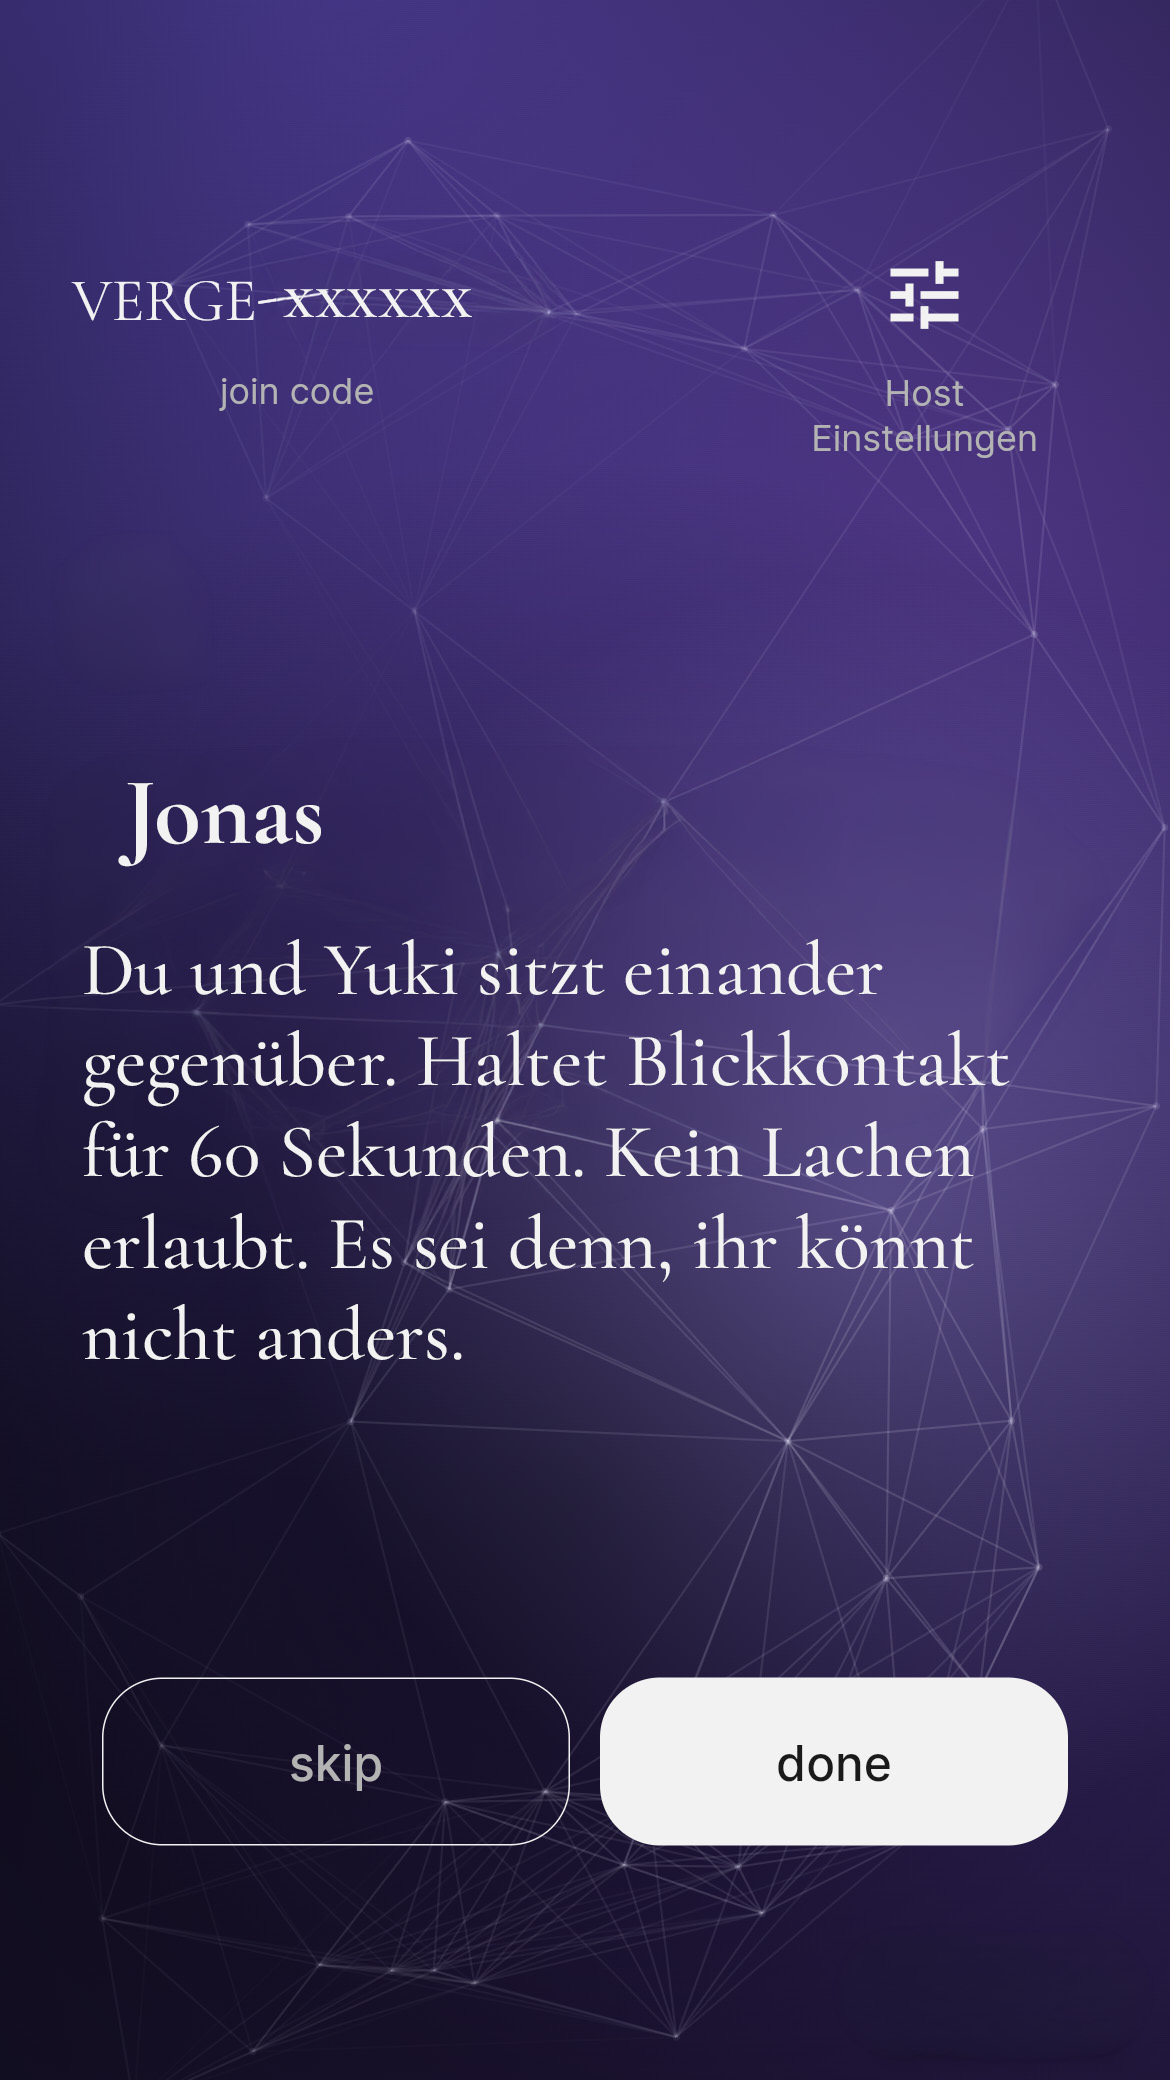
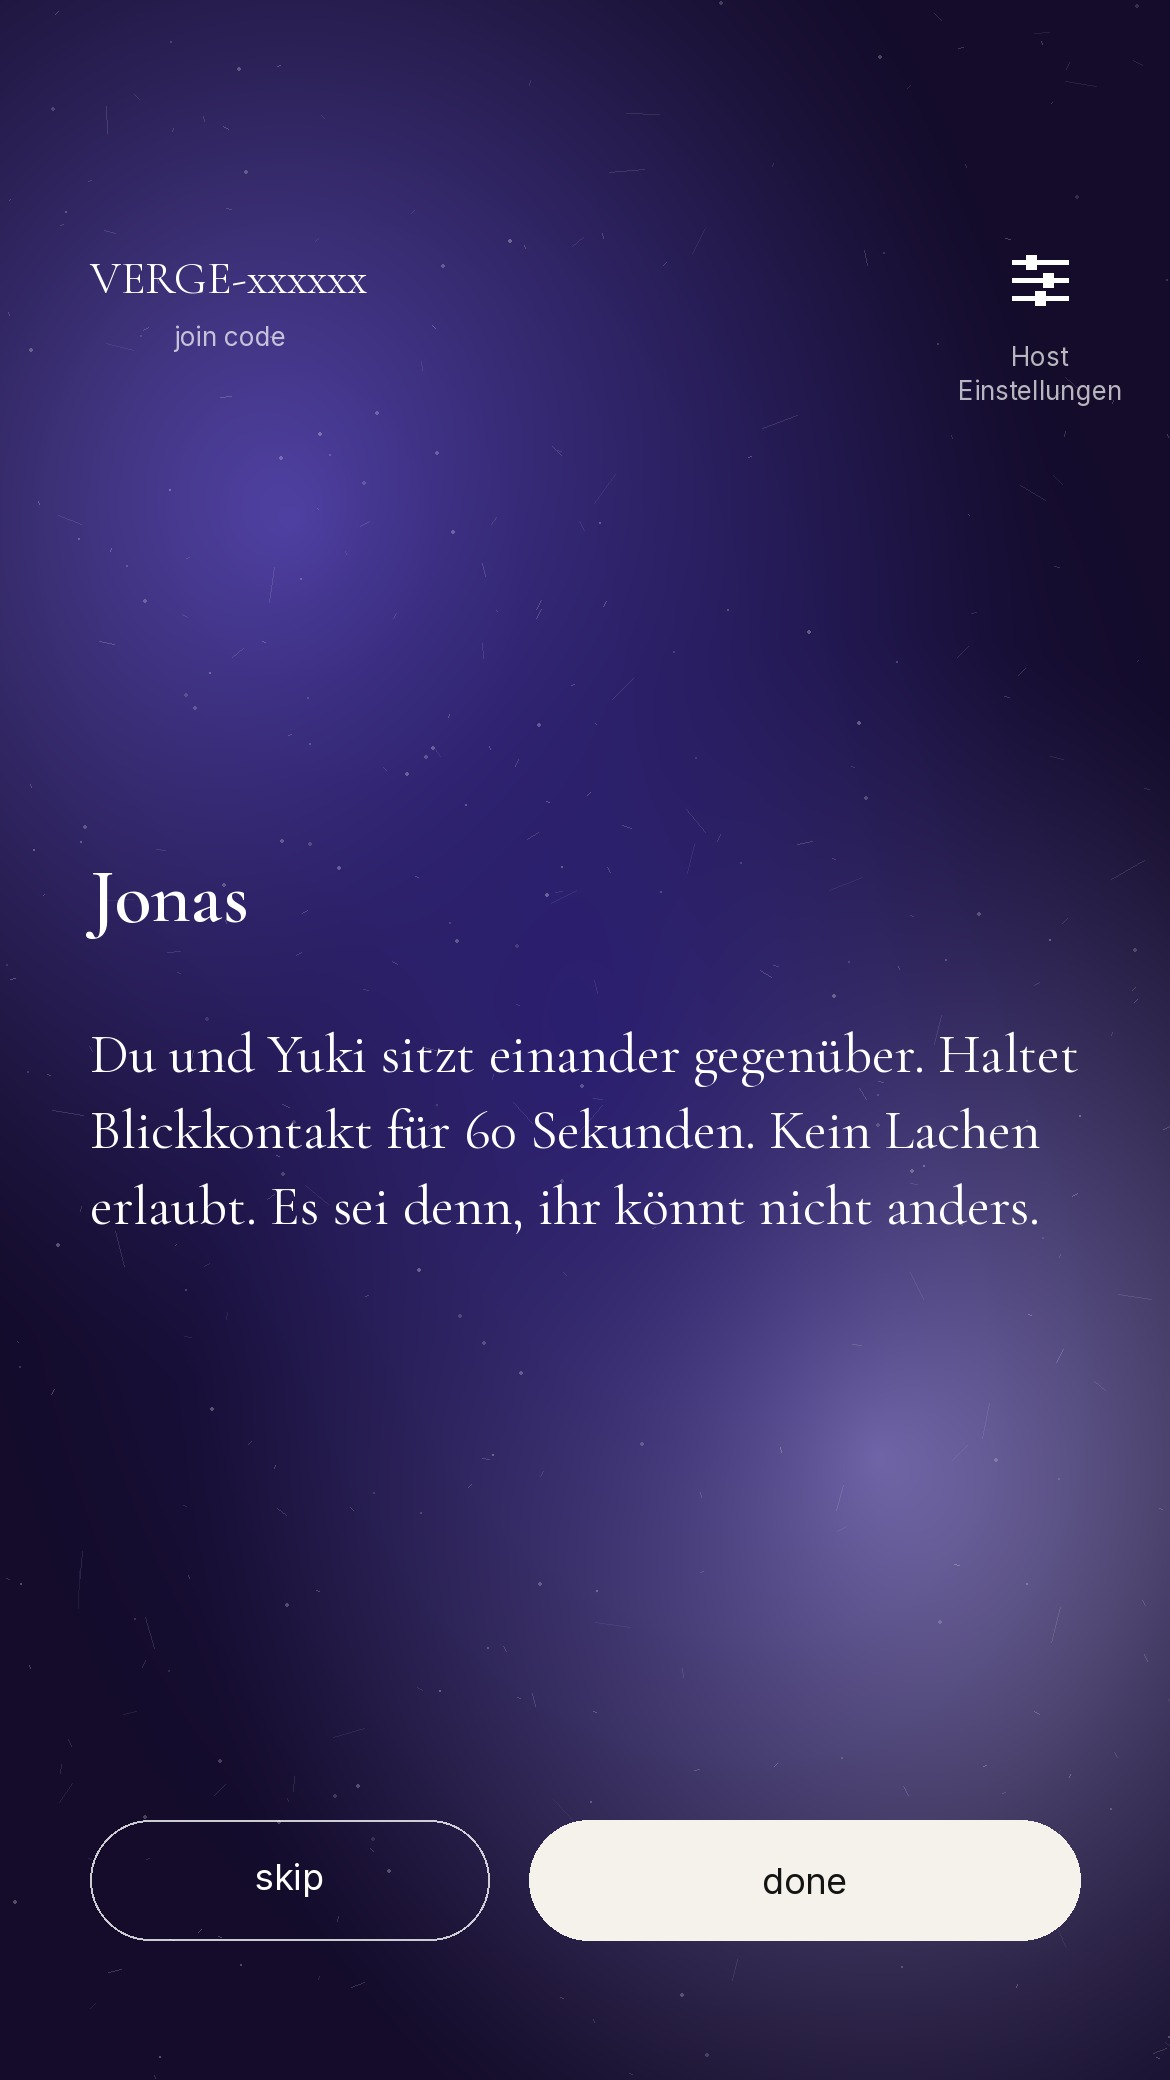
Add files via upload

diff --git a/index.html b/index.html
@@ -19,11 +19,11 @@
 <style>
 *{margin:0;padding:0;box-sizing:border-box}
 :root{
-  --bg:#1a1a1a;
-  --bg2:#222222;
-  --ink:#f2f2f2;
-  --ink2:#b3b3b3;
-  --rule:rgba(242,242,242,0.04);
+  --bg:#0e0e0e;
+  --bg2:#161616;
+  --ink:#fafafa;
+  --ink2:#cfcfcf;
+  --rule:rgba(250,250,250,0.06);
   --a1:#2ec4b6;
   --a2:#3a86ff;
   --a3:#7b61ff;
@@ -32,11 +32,11 @@
 }
 html,body{width:100%;min-height:100%;background:var(--bg);color:var(--ink);overflow-x:hidden}
 body{font-family:"Inter",sans-serif;font-weight:300}
-#c{position:fixed;inset:0;z-index:0;pointer-events:none}
+#c{position:fixed;inset:0;z-index:0;pointer-events:none;filter:brightness(.78)}
 
 /* lang */
 .lang{position:fixed;top:28px;right:32px;z-index:300;display:flex;border:1px solid var(--rule);overflow:hidden}
-.lang button{background:none;border:none;border-right:1px solid var(--rule);color:var(--ink2);font-family:"Inter",sans-serif;font-size:9px;font-weight:500;letter-spacing:.14em;padding:8px 15px;cursor:pointer;transition:all .2s;text-transform:uppercase}
+.lang button{background:none;border:none;border-right:1px solid var(--rule);color:var(--ink2);font-family:"Inter",sans-serif;font-size:10px;font-weight:500;letter-spacing:.14em;padding:8px 15px;cursor:pointer;transition:all .2s;text-transform:uppercase}
 .lang button:last-child{border-right:none}
 .lang button.active{background:rgba(242,242,242,.05);color:var(--ink)}
 
@@ -55,31 +55,31 @@ nav{position:relative;display:flex;align-items:center;justify-content:center;pad
 
 .hero-left{padding:60px 40px 60px 0;display:flex;flex-direction:column;justify-content:flex-start}
 
-.eyebrow{font-family:"Inter",sans-serif;font-size:9px;font-weight:400;letter-spacing:.22em;text-transform:uppercase;color:var(--ink2);margin-bottom:44px;animation:up .8s cubic-bezier(.16,1,.3,1) .05s both}
+.eyebrow{font-family:"Inter",sans-serif;font-size:10px;font-weight:400;letter-spacing:.22em;text-transform:uppercase;color:var(--ink2);margin-bottom:44px;animation:up .8s cubic-bezier(.16,1,.3,1) .05s both}
 
 /* HEADLINE — Cormorant Garamond, riesig und laut */
 .hl{animation:up .8s cubic-bezier(.16,1,.3,1) .1s both;font-family:"Cormorant Garamond",serif;line-height:.93;letter-spacing:-.02em}
-.hl .w1{display:block;font-size:clamp(32px,4.2vw,58px);font-weight:700;color:var(--ink)}
-.hl .w2{display:block;font-size:clamp(32px,4.2vw,58px);font-weight:400;font-style:italic;color:transparent;-webkit-text-stroke:1px var(--a1);padding-left:.06em}
-.hl .w3{display:block;font-size:clamp(18px,2vw,28px);font-weight:300;color:rgba(242,242,242,.32);padding-left:.1em;margin-top:.28em}
-.hl .w4{display:block;font-size:clamp(18px,2vw,28px);font-weight:600;font-style:italic;color:var(--a5);padding-left:.1em}
+.hl .w1{display:block;font-size:clamp(36px,4.6vw,64px);font-weight:700;color:var(--ink)}
+.hl .w2{display:block;font-size:clamp(36px,4.6vw,64px);font-weight:400;font-style:italic;color:transparent;-webkit-text-stroke:1px var(--a1);padding-left:.06em}
+.hl .w3{display:block;font-size:clamp(20px,2.2vw,30px);font-weight:300;color:rgba(250,250,250,.42);padding-left:.1em;margin-top:.28em}
+.hl .w4{display:block;font-size:clamp(20px,2.2vw,30px);font-weight:600;font-style:italic;color:var(--a5);padding-left:.1em}
 
 /* body copy */
-.hero-copy{font-family:"Inter",sans-serif;font-size:14px;font-weight:300;line-height:2;color:var(--ink2);animation:up .8s cubic-bezier(.16,1,.3,1) .18s both;max-width:400px;margin-top:52px}
+.hero-copy{font-family:"Inter",sans-serif;font-size:15px;font-weight:300;line-height:2;color:var(--ink2);animation:up .8s cubic-bezier(.16,1,.3,1) .18s both;max-width:400px;margin-top:52px}
 .hero-copy strong{color:var(--ink);font-weight:400}
 
 /* right col — signup */
 .hero-right{padding:80px 0 80px 52px;display:flex;flex-direction:column;justify-content:flex-start;gap:0;animation:up .8s cubic-bezier(.16,1,.3,1) .14s both}
 
-.signup-ey{font-family:"Cormorant Garamond",serif;font-size:18px;font-weight:500;font-style:italic;letter-spacing:.01em;color:var(--ink);margin-bottom:22px}
-.sfield{width:100%;background:transparent;border:none;border-bottom:1px solid var(--rule);padding:14px 0;color:var(--ink);font-family:"Inter",sans-serif;font-size:14px;font-weight:300;outline:none;transition:border-color .25s;display:block}
+.signup-ey{font-family:"Cormorant Garamond",serif;font-size:20px;font-weight:500;font-style:italic;letter-spacing:.01em;color:var(--ink);margin-bottom:22px}
+.sfield{width:100%;background:transparent;border:none;border-bottom:1px solid var(--rule);padding:14px 0;color:var(--ink);font-family:"Inter",sans-serif;font-size:15px;font-weight:300;outline:none;transition:border-color .25s;display:block}
 .sfield:focus{border-bottom-color:rgba(46,196,182,.45)}
 .sfield::placeholder{color:rgba(242,242,242,.38)}
-.sbtn{width:100%;background:var(--a1);border:none;border-radius:2px;padding:16px 20px;color:#0a0a0a;font-family:"Inter",sans-serif;font-size:9px;font-weight:500;letter-spacing:.25em;text-transform:uppercase;cursor:pointer;transition:all .3s;text-align:left;display:flex;justify-content:space-between;align-items:center;margin-top:18px}
+.sbtn{width:100%;background:var(--a1);border:none;border-radius:2px;padding:16px 20px;color:#0a0a0a;font-family:"Inter",sans-serif;font-size:10px;font-weight:500;letter-spacing:.25em;text-transform:uppercase;cursor:pointer;transition:all .3s;text-align:left;display:flex;justify-content:space-between;align-items:center;margin-top:18px}
 .sbtn::after{content:'→';font-size:15px;letter-spacing:0;font-weight:400;transition:transform .3s}
 .sbtn:hover{background:var(--ink);color:#0a0a0a}
 .sbtn:hover::after{transform:translateX(6px)}
-.snote{font-family:"Inter",sans-serif;font-size:8px;font-weight:300;letter-spacing:.1em;text-transform:uppercase;color:rgba(242,242,242,.16);margin-top:18px}
+.snote{font-family:"Inter",sans-serif;font-size:9px;font-weight:300;letter-spacing:.1em;text-transform:uppercase;color:rgba(250,250,250,.22);margin-top:18px}
 .success-msg{display:none;padding:24px 0;font-family:"Cormorant Garamond",serif;font-size:22px;font-style:italic;font-weight:400;color:var(--a1)}
 
 /* badges */
@@ -92,13 +92,13 @@ nav{position:relative;display:flex;align-items:center;justify-content:center;pad
 /* ── ABOUT ── */
 .about-sec{display:block;border-bottom:1px solid var(--rule);padding:72px 0}
 .about-left{padding:0 0 24px 0}
-.sec-label{font-family:"Inter",sans-serif;font-size:9px;font-weight:400;letter-spacing:.2em;text-transform:uppercase;color:var(--ink2)}
+.sec-label{font-family:"Inter",sans-serif;font-size:10px;font-weight:400;letter-spacing:.2em;text-transform:uppercase;color:var(--ink2)}
 .about-right{padding:0}
 /* Cormorant für Pull-Quote */
-.about-pull{font-family:"Cormorant Garamond",serif;font-size:clamp(20px,2.6vw,30px);font-weight:400;font-style:italic;line-height:1.62;color:rgba(242,242,242,.62);margin-bottom:52px}
+.about-pull{font-family:"Cormorant Garamond",serif;font-size:clamp(22px,2.8vw,32px);font-weight:400;font-style:italic;line-height:1.62;color:rgba(250,250,250,.72);margin-bottom:52px}
 .phases{display:flex;flex-direction:column;gap:6px;align-items:flex-start}
 .phases-row{display:flex;gap:6px}
-.pill{font-family:"Inter",sans-serif;font-size:8px;font-weight:400;letter-spacing:.12em;text-transform:uppercase;padding:7px 15px;border:1px solid rgba(255,255,255,.07);transition:border-color .2s}
+.pill{font-family:"Inter",sans-serif;font-size:9px;font-weight:400;letter-spacing:.12em;text-transform:uppercase;padding:7px 15px;border:1px solid rgba(255,255,255,.1);transition:border-color .2s}
 
 /* ── CONSENT ── */
 .consent-sec{border-bottom:1px solid var(--rule)}
@@ -281,16 +281,16 @@ footer{position:relative;z-index:10;max-width:1280px;margin:0 auto;padding:28px 
       <div class="card-img-wrap" style="position:relative">
         <button class="card-arrow card-arrow-left" onclick="cardPrev()">&#8592;</button>
         <button class="card-arrow card-arrow-right" onclick="cardNext()">&#8594;</button>
-        <img class="card-img active" id="card-img-0"  src="card-01.jpg" alt="Verge Karte 1">
-        <img class="card-img"        id="card-img-1"  src="card-02.jpg" alt="Verge Karte 2">
-        <img class="card-img"        id="card-img-2"  src="card-03.jpg" alt="Verge Karte 3">
-        <img class="card-img"        id="card-img-3"  src="card-04.jpg" alt="Verge Karte 4">
-        <img class="card-img"        id="card-img-4"  src="card-05.jpg" alt="Verge Karte 5">
-        <img class="card-img"        id="card-img-5"  src="card-06.jpg" alt="Verge Karte 6">
-        <img class="card-img"        id="card-img-6"  src="card-07.jpg" alt="Verge Karte 7">
-        <img class="card-img"        id="card-img-7"  src="card-08.jpg" alt="Verge Karte 8">
-        <img class="card-img"        id="card-img-8"  src="card-09.jpg" alt="Verge Karte 9">
-        <img class="card-img"        id="card-img-9"  src="card-10.jpg" alt="Verge Karte 10">
+        <img class="card-img active" id="card-img-0"  src="card-01.jpg" alt="Verge Karte - Max">
+        <img class="card-img"        id="card-img-1"  src="card-02.jpg" alt="Verge Karte - Lena">
+        <img class="card-img"        id="card-img-2"  src="card-03.jpg" alt="Verge Karte - Sasha">
+        <img class="card-img"        id="card-img-3"  src="card-04.jpg" alt="Verge Karte - Stan">
+        <img class="card-img"        id="card-img-4"  src="card-05.jpg" alt="Verge Karte - Lara">
+        <img class="card-img"        id="card-img-5"  src="card-06.jpg" alt="Verge Karte - Jonas">
+        <img class="card-img"        id="card-img-6"  src="card-07.jpg" alt="Verge Karte - Mia">
+        <img class="card-img"        id="card-img-7"  src="card-08.jpg" alt="Verge Karte - Felix">
+        <img class="card-img"        id="card-img-8"  src="card-09.jpg" alt="Verge Karte - Marco">
+        <img class="card-img"        id="card-img-9"  src="card-10.jpg" alt="Verge Karte - Chiara">
       </div>
       <div class="card-controls">
         <div class="card-dots" id="card-dots"></div>
@@ -479,6 +479,13 @@ function setLang(l){
   document.getElementById("t-c5").innerHTML=t.c5;
   document.getElementById("t-privacy").innerHTML=t.privacy;
   document.getElementById("t-joker").textContent=t.joker;
+  // Card image src je Sprache umschalten (card-XX.jpg DE / card-XX-en.jpg EN)
+  for(let i=0;i<10;i++){
+    const img=document.getElementById("card-img-"+i);
+    if(!img)continue;
+    const n=String(i+1).padStart(2,"0");
+    img.src = (l==="en") ? `card-${n}-en.jpg` : `card-${n}.jpg`;
+  }
   // Card labels neu auflösen (CARD_DATA.label ist sprachabhängig)
   if(typeof cShow==="function")cShow(cIdx);
 }
@@ -497,18 +504,26 @@ document.getElementById("email-input").addEventListener("keydown",e=>{if(e.key==
 // ── KARTEN-SLIDER ────────────────────────────────────────────────────────────
 // Phasen-Labels (DE/EN) und -Farben für jede Karte (card-01.jpg bis card-10.jpg)
 const CARD_DATA = [
-  { labelDe: 'Spielerisch', labelEn: 'Playful',     color: '#2ec4b6' },
-  { labelDe: 'Spielerisch', labelEn: 'Playful',     color: '#2ec4b6' },
-  { labelDe: 'Pers\u00f6nlich', labelEn: 'Personal', color: '#3a86ff' },
-  { labelDe: 'Pers\u00f6nlich', labelEn: 'Personal', color: '#3a86ff' },
-  { labelDe: 'Nah',         labelEn: 'Close',       color: '#7b61ff' },
-  { labelDe: 'Nah',         labelEn: 'Close',       color: '#7b61ff' },
-  { labelDe: 'Intim',       labelEn: 'Intimate',    color: '#ff6b6b' },
-  { labelDe: 'Intim',       labelEn: 'Intimate',    color: '#ff6b6b' },
-  { labelDe: 'Enthemmt',    labelEn: 'Uninhibited', color: '#ff3b30' },
-  { labelDe: 'Enthemmt',    labelEn: 'Uninhibited', color: '#ff3b30' },
+  { name: 'Max',    labelDe: 'Spielerisch',    labelEn: 'Playful',     color: '#2ec4b6' },
+  { name: 'Lena',   labelDe: 'Spielerisch',    labelEn: 'Playful',     color: '#2ec4b6' },
+  { name: 'Sasha',  labelDe: 'Pers\u00f6nlich', labelEn: 'Personal',    color: '#3a86ff' },
+  { name: 'Stan',   labelDe: 'Pers\u00f6nlich', labelEn: 'Personal',    color: '#3a86ff' },
+  { name: 'Lara',   labelDe: 'Nah',            labelEn: 'Close',       color: '#7b61ff' },
+  { name: 'Jonas',  labelDe: 'Nah',            labelEn: 'Close',       color: '#7b61ff' },
+  { name: 'Mia',    labelDe: 'Intim',          labelEn: 'Intimate',    color: '#ff6b6b' },
+  { name: 'Felix',  labelDe: 'Intim',          labelEn: 'Intimate',    color: '#ff6b6b' },
+  { name: 'Marco',  labelDe: 'Enthemmt',       labelEn: 'Uninhibited', color: '#ff3b30' },
+  { name: 'Chiara', labelDe: 'Enthemmt',       labelEn: 'Uninhibited', color: '#ff3b30' },
 ];
 function cardLabel(d) { return (typeof lang !== 'undefined' && lang === 'en') ? d.labelEn : d.labelDe; }
+// Preload other language card images (browser cache -> instant swap on toggle)
+(function preloadOtherLangCards(){
+  for(let i=1;i<=10;i++){
+    const n=String(i).padStart(2,'0');
+    new Image().src = `card-${n}.jpg`;
+    new Image().src = `card-${n}-en.jpg`;
+  }
+})();
 
 // ── Slider v2 ────────────────────────────────────────────────────────────────
 // Pointer Events (unifiziert Maus/Touch/Stylus) + setPointerCapture (fixt Drag-Leak
